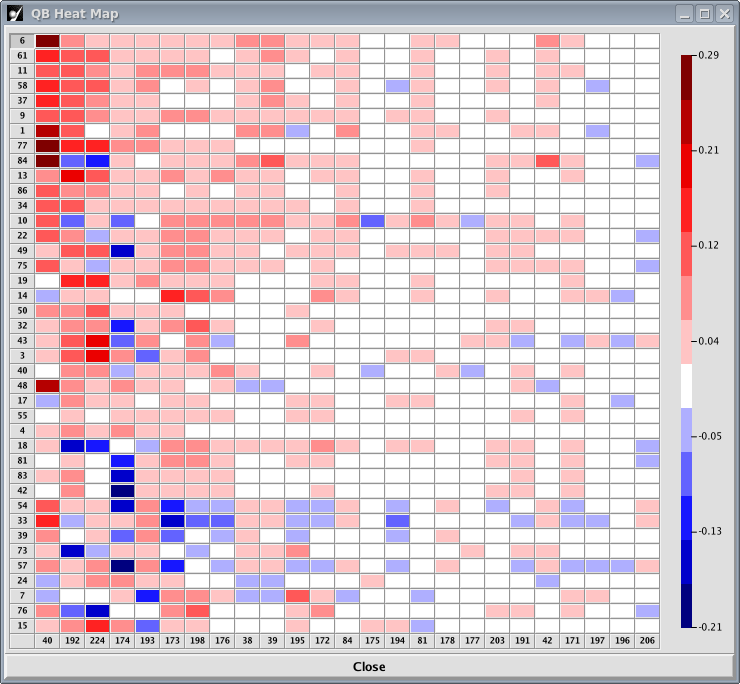
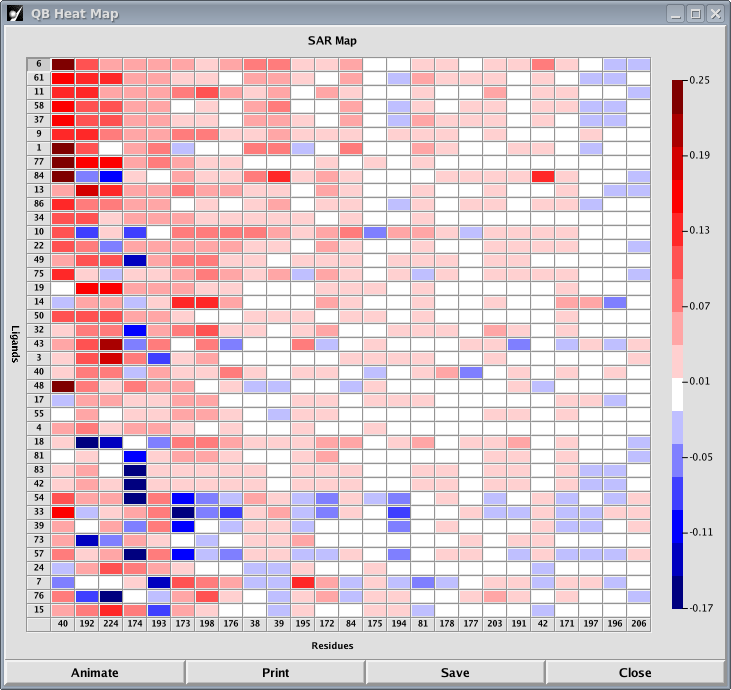
Made cutoff optional; Heat Map documentation.
git-svn-id: https://svn.quantumbioinc.com/MOEDivcon/trunk@5341 0241862a-156b-41b8-859c-7af79c85dedb

diff --git a/doc/help-qmscore.html b/doc/help-qmscore.html
@@ -100,6 +100,13 @@ QuantumBio Homepage
     <li><a href="#options-opt">Ligand Optimization</a>
     <li><a href="#options-freq">Frequency</a>
   </ol>
+  <li><a href="#heatmap">Heat Map</a>
+  <ol id=tocl>
+    <li><a href="#heatmap-selection">Selection</a>
+    <li><a href="#heatmap-saveprint">Save and Print</a>
+    <li><a href="#heatmap-animation">Animation</a>
+    <li><a href="#heatmap-setup">Setup</a>
+  </ol>
   <li><a href="#trouble">Troubleshooting</a>
   <li><a href="#contact">Support Contact Information</a></ol>
 
@@ -770,6 +777,116 @@ of the calculation.
 <p>
 Perform frequency calculation to determine ligand entropy in score
 function.  Warning: may increase CPU cost of the calculation.
+
+<h2><a name="heatmap"></a>Heat Map</h2>
+<p>
+The <w>QB Heat Map</w> is used to implement the interaction energy map and the
+structure-activity relationship (SAR) map.  The interaction energy map is based
+on the absolute <em>E</em><sub>AB</sub> terms from PWD, which  makes it
+easy to identify the residues that have the largest absolute effect on ligand
+binding.  The SAR map consists of the most important residue-ligand interaction
+terms derived from the PLS analysis of all the interaction terms (attractive
+and repulsive), which highlights residues that are most critical to discriminating
+between more and less potent ligands (see the PWD section for more details).
+Below is an example SAR map.
+<p>
+<object id="QBPWDHeatMapPoly" title="QBPWD Heat Map Poly"
+data="images/qbheatmappoly.png" type=image/png>
+QBPWD Heat Map Poly
+</object>
+<p>
+Note that ligand and residue names are abbreviated so that they fit into the
+heat map.  If you hover the mouse over the abreviated names, a bubble appears
+with the full name.  If you hover over a color-coded cell, the full corresponding 
+ligand and residue names as well as the interaction value appears in the bubble.
+<p>
+The <w>QB Heat Map</w> is interactive.  When first invoked, a Connolly molecular
+surface of the pocket is generated.  Then, depending on the user selection, the
+corresponding residues along the molecular surface are colored 
+according to their interaction values in the heap map.  An example of such a
+surface (ligand 6 of the heat map is selected) is shown below.
+<p>
+<object id="QBPWDSurfacePoly" title="QBPWD Surface Poly" width=1000
+data="images/surfacepoly.png" type=image/png>
+QBPWD Surface Poly
+</object>
+<p>
+
+<h3><a name="heatmap-selection"></a>Selection</h3>
+<p>
+There are three types of interactive selections you can make.  If you select a
+ligand, the chosen ligand  is loaded into the MOE Window and the molecular
+surface is recolored to show the values for all residues in the heat map for
+that ligand.  If you select a residue, the ligand and surface do not
+change, but the chosen residue is labeled and the view zooms in on it.  If
+you select a color-coded cell, the corresponding ligand is loaded into the MOE 
+Window and the molecular surface is recolored to show only the value for the
+corresponding residue, which is also labeled.
+
+<h3><a name="heatmap-saveprint"></a>Save and Print</h3>
+<p>
+You can save a publication quality image of the <w>QB Heat Map</w> by
+clicking the <w>Save</w>  button.  MOE's <w>Graphic Export Panel</w> is used
+to save the image.  An example is shown below.
+<p>
+<object id="QMPWDHeatMapSave" title="QBPWD Heat Map Save"
+data="images/qbheatmapoutputpoly.png" type=image/png>
+QBPWD Heat Map Save
+</object>
+<p>
+Likewise, MOE's <w>Print Preview Panel</w> is used to print
+the <w>QB Heat Map</w> when you click the <w>Print</w> button.
+
+<h3><a name="heatmap-animation"></a>Animation</h3>
+<p>
+When you click on the <w>Animate</w> button, the <w>QB Heat Map</w> is
+temporarily hidden, and each ligand is sequentially selected beginning with
+the topmost one.  That is, each ligand is loaded into the MOE Window and
+the molecular surface is recolored.  When all ligands have been shown, the
+<w>QB Heat Map</w> reappears.
+
+<h3><a name="heatmap-setup"></a>Setup</h3>
+<p>
+The <w>QB-PWD</w> dialog contains several options you can use to
+set up the <w>QB Heat Map</w> as shown below.
+<p>
+<object id="QBPWDAnalysis" title="QBPWD Anaysis"
+data="images/qbpwdanalysis.png" type=image/png>
+QBPWD Anaysis
+</object>
+<p>
+
+<h4><a name="heatmap-setup-cutoff"></a>Cutoff</h4>
+<p>
+If <w>Cutoff</w> is selected, the standard deviation of a subset of the heat
+map values is used to determine minimum and maximum cutoffs; otherwise, the
+absolute minimum and maximum values are used.  In addition, you can specify
+in the <w>Number of sima</w> field, how standard deviations are used to
+determine the minimum and maximum values of the color scale.  Values smaller
+than the minimum are assigned the same color as the minimum and
+values greater than the maximum are assigned the same color as the maximum.
+
+<h4><a name="heatmap-setup-numcolors"></a>Number of Colors</h4>
+<p>
+The number of different colors used to generate the color scale for the heat map.
+
+<h4><a name="heatmap-setup-mono"></a>Monochromatic</h4>
+<p>
+If <w>Monochromatic</w> is selected, a single color (red for positive,
+blue for negative) is used to generate the color scale.  Otherwise,
+a rainbow spectrum of colors is used (as was seen above).  The same heat map
+with the monochromatic option is shown below.
+<p>
+<object id="QMPWDHeatMapMono" title="QBPWD Heat Map Mono"
+data="images/qbheatmapmono.png" type=image/png>
+QBPWD Heat Map Poly
+</object>
+<p>
+
+<h4><a name="heatmap-setup-numticks"></a>Number of Ticks</h4>
+<p>
+The number of ticks to display on the color scale showing the values
+represented by the colors.
 
 <h2><a name="trouble"></a>Troubleshooting</h2>
 We list here potential problems using the MOEDivcon integration and possible
